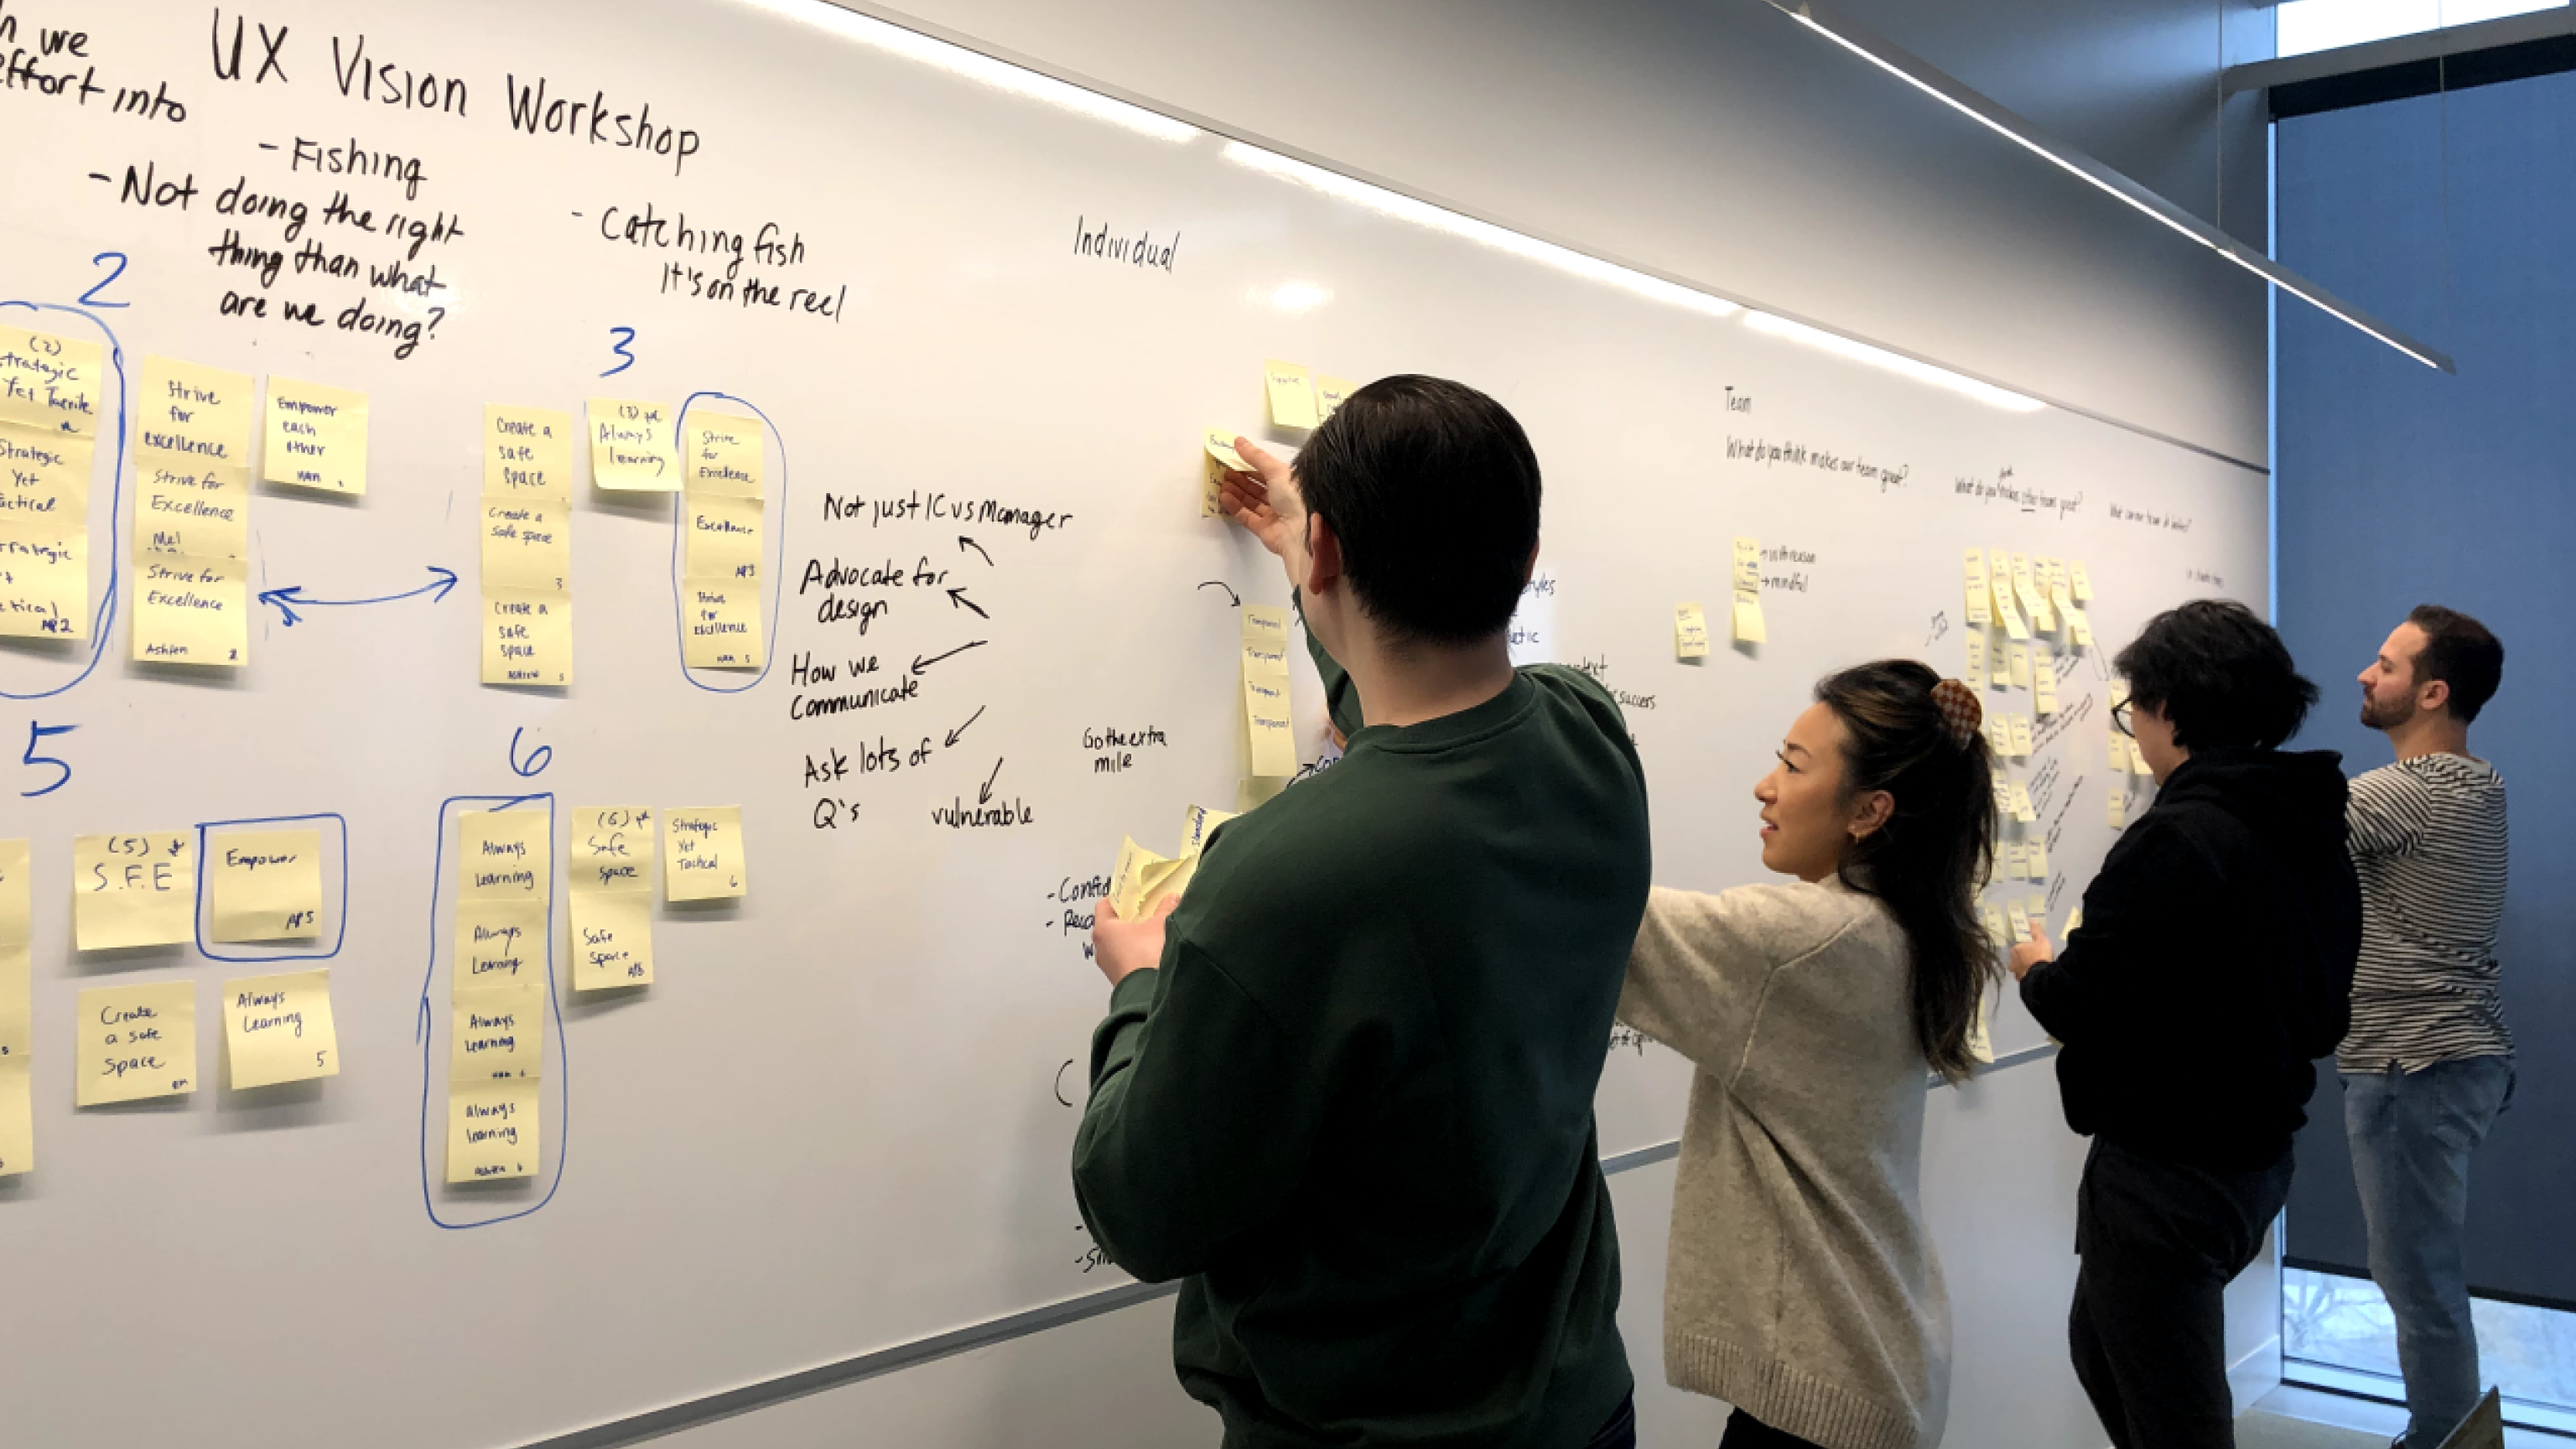
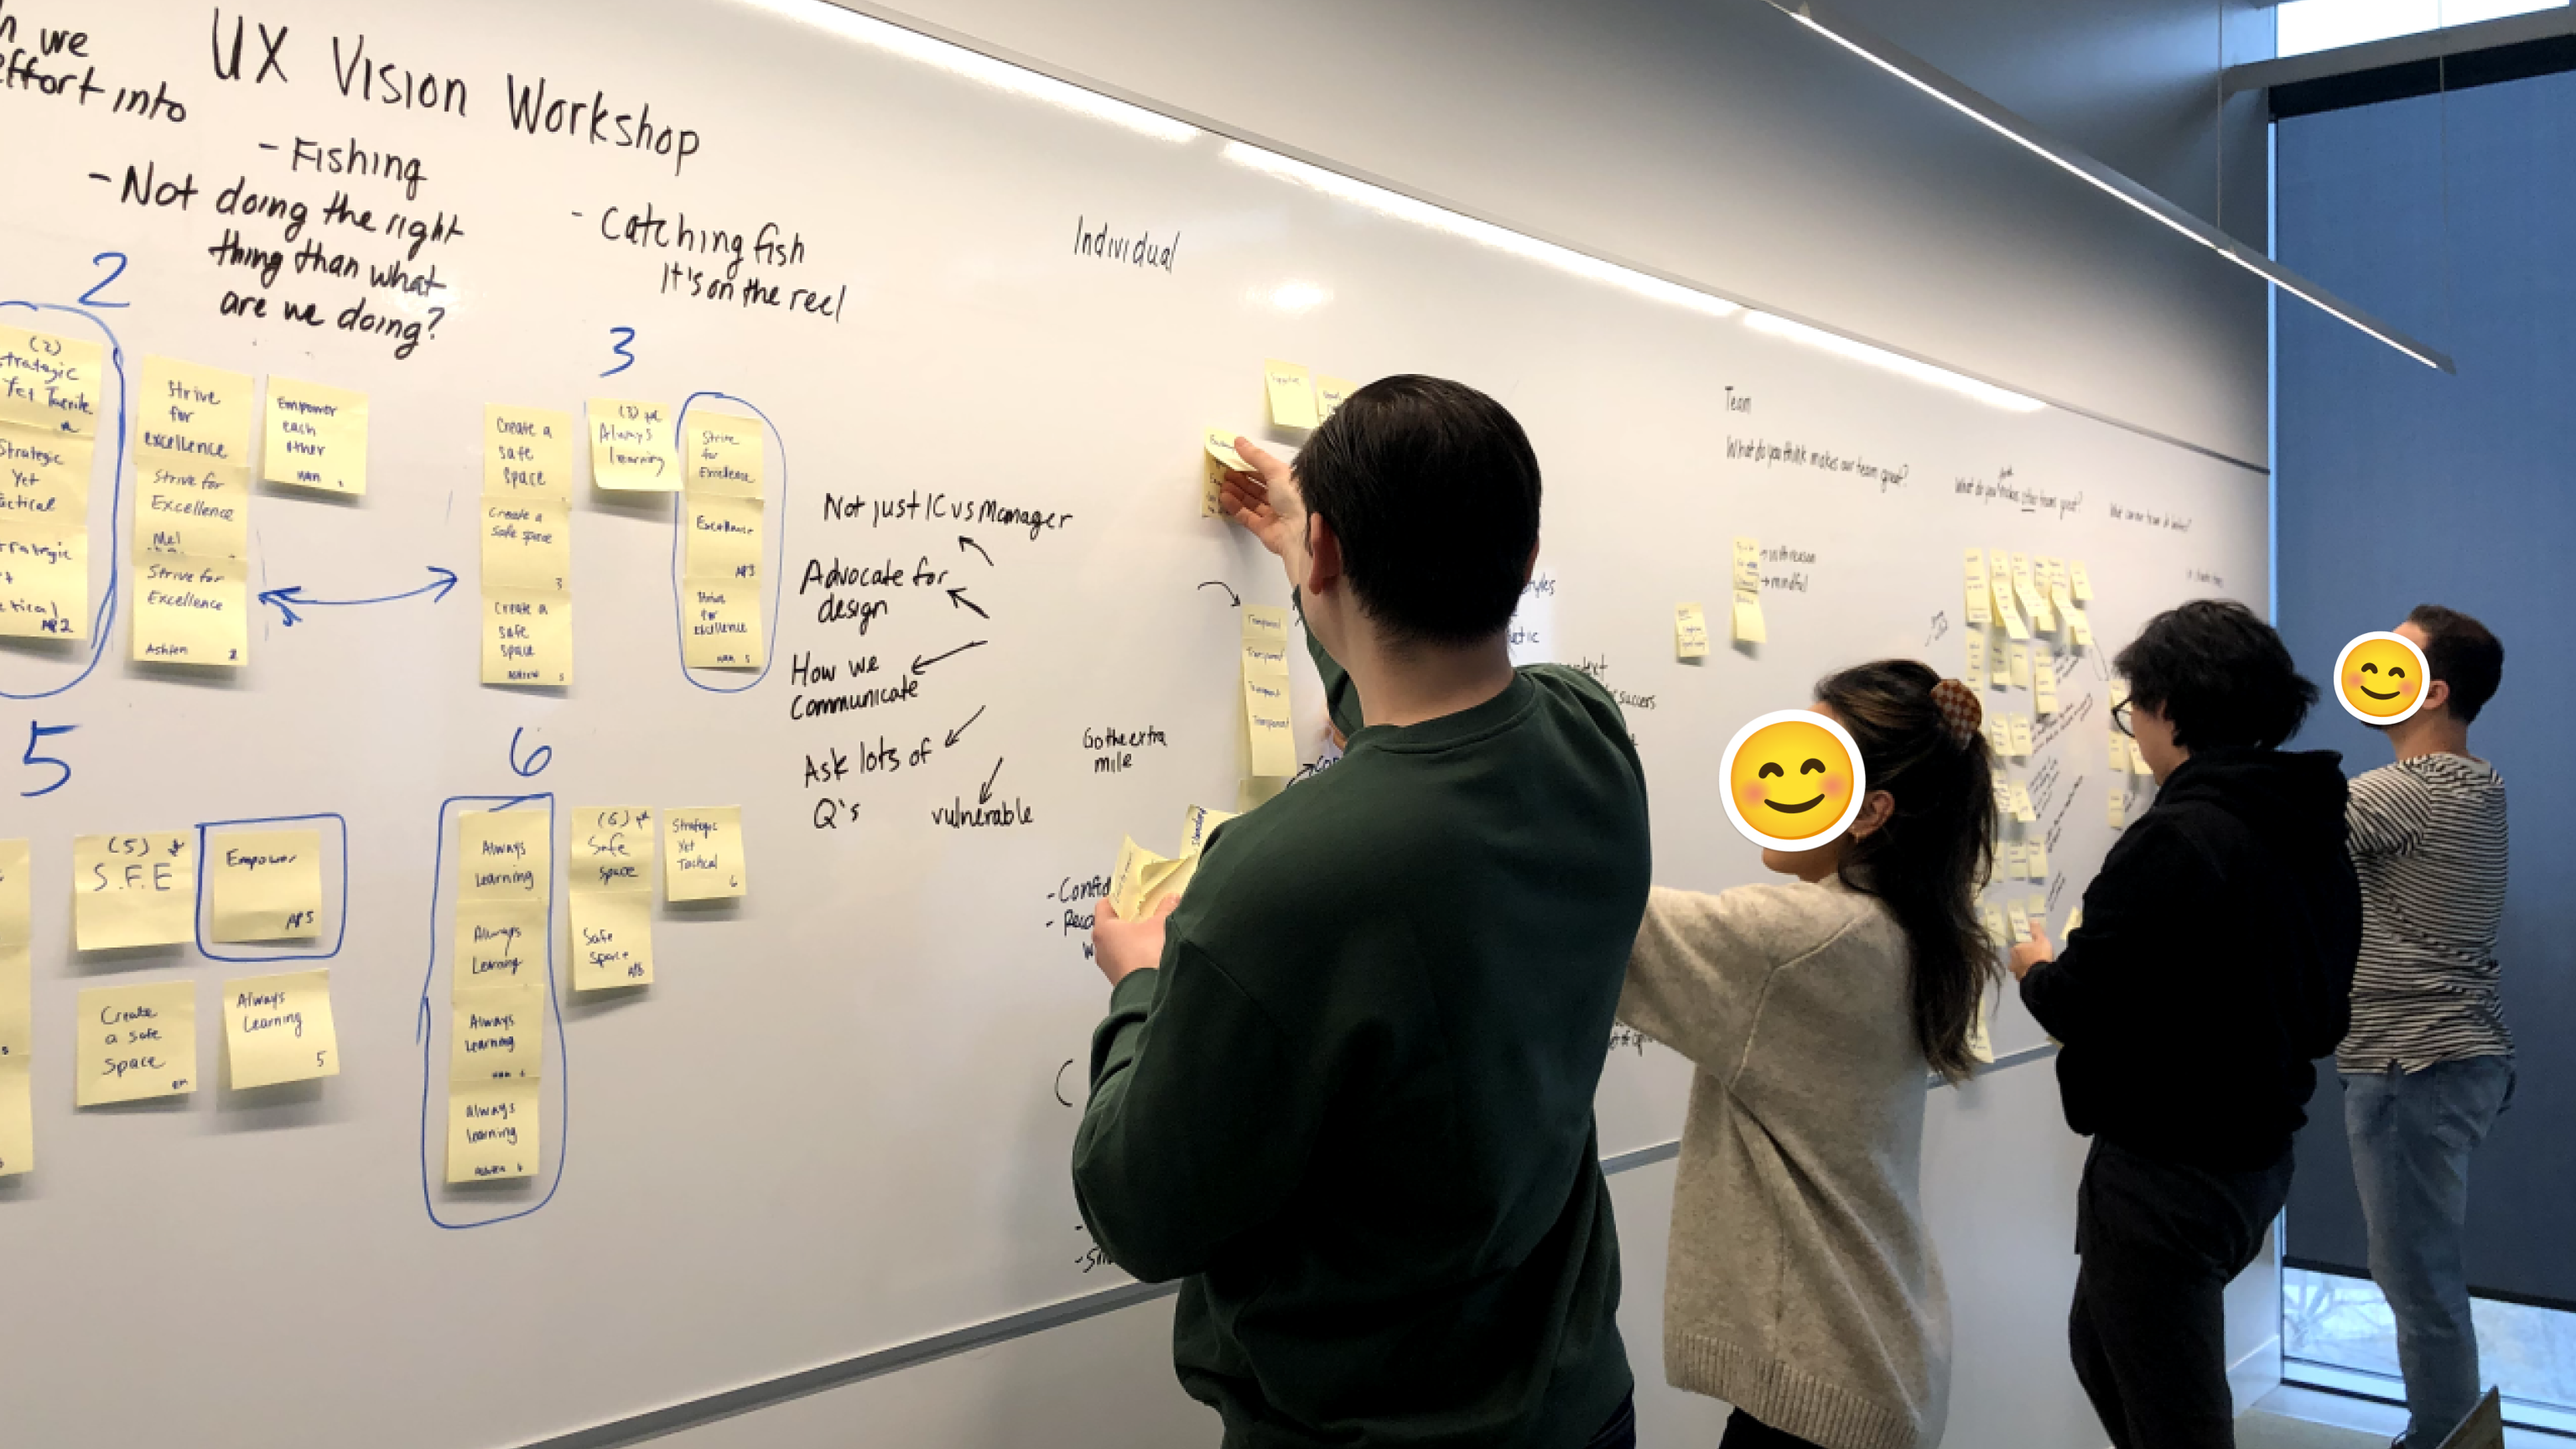
Add 3.png image, update hero cache-bust, fix vision section copy

Changed region(s): [[0.6562, 0.4688, 0.75, 0.5938], [0.9062, 0.4375, 0.9688, 0.5]]

diff --git a/index.html b/index.html
@@ -534,7 +534,7 @@
           </div>
         </div>
       </div>
-      <div class="case-cover" style="background: url('assets/case-studies/ux org design/1.png?v=2') center/cover no-repeat; height: auto; aspect-ratio: 16 / 9; box-shadow: 0px 2px 4px 0px rgba(0,0,0,0.15);"></div>
+      <div class="case-cover" style="background: url('assets/case-studies/ux org design/1.png?v=3') center/cover no-repeat; height: auto; aspect-ratio: 16 / 9; box-shadow: 0px 2px 4px 0px rgba(0,0,0,0.15);"></div>
 
       <div class="content-section" style="margin-top: 70px;">
         <div class="section-tag">Context</div>
@@ -559,7 +559,14 @@
       <div class="content-section">
         <p class="section-text">We started with stickies on a FigJam board, each person writing their own answer to questions like "Why do we do the things we do here?" and "What would it look like if the UX team stopped existing tomorrow?"</p>
         <p class="section-text">The team was quick to respond with answers like: "We advocate for the user and we'd lose their voice in the room", and "The business would fail, we'd build on flaky assumptions", and also "Quality would erode quietly until the app is unusable".</p>
-        <p class="section-text">By the end of day two we had a vision:</p>
+      </div>
+
+      <div class="img-block">
+        <div class="img-single" style="background: url('assets/case-studies/ux org design/3.png') center/cover no-repeat; box-shadow: 0px 2px 4px 0px rgba(0,0,0,0.15); height: auto; aspect-ratio: 16 / 9;"></div>
+      </div>
+
+      <div class="content-section">
+        <p class="section-text">By the end of day two after a lot of discussion and a lot of stickies, we had a vision:</p>
         <div class="quote-block">
           <p>Be a best-in-class UX team that people aspire to <u>work for</u> and are excited to <u>work with</u>.</p>
         </div>
